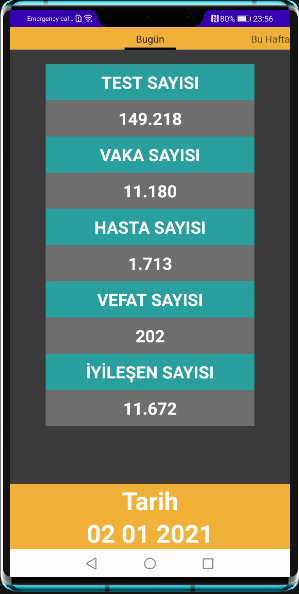
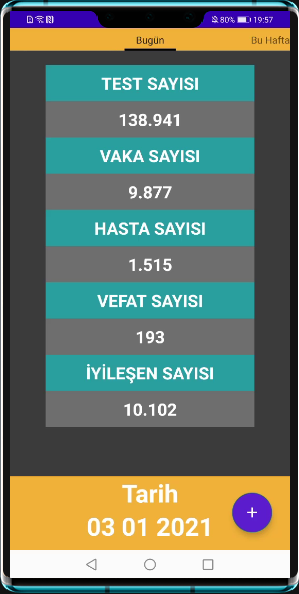
added new images

diff --git a/README.md b/README.md
@@ -5,7 +5,7 @@
 
 Türkiye Cumhuriyeti Sağlık Bakanlığı tarafından yayınlanan korona hasta tablosu yayınlandığında bildirim gönderen ve son yayımlanan hasta tablosunu tablosunu gösteren ugulamadır. 
 
-![](covidapp_1.png) ![](covidapp_2.png) ![](covidapp_3.png) ![](covidapp_4.png)
+![](covidapp_1.png) ![](covidapp_2.png) ![](covidapp_3.png) ![](covidapp_4.png) ![](covidapp_5.png)
 
 ## Kurulum
 
